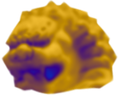
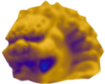
.

diff --git a/styles/myths-i-feed.css b/styles/myths-i-feed.css
@@ -4,9 +4,9 @@
 }
 :root {
     --font: 'iA Writer Quattro';
-    --fontSize: clamp(11px,1vw,13px);
+    --fontSize: clamp(12px,.9vw,14px);
     --fontSizeMedium: 1.15em;
-    --fontSizeBig: 1.6em;
+    --fontSizeBig: 1.5em;
     --fontWeight: 500;
     --fontWeightMedium:420;
     --fontWeightThin: 410;
@@ -132,6 +132,7 @@ p {
 }
 #canvas-wrapper :is(#mycelium-canvas,#mushroom-canvas,#limbo-canvas) {
     display: block !important;
+    image-rendering: pixelated;
     position: fixed;
     z-index: -1;
     top: 0;
@@ -347,11 +348,7 @@ p {
 
 @media (max-width:505px){
     :root {
-        --fontSizeBig: 1.4em;
-        --wordSpacing: -.1em;
-        --wordSpacingMedium: -.12em;
-        --wordSpacingSmall: -.15em;
-        --letterSpacingSmall: -.015em;
+        --fontSizeBig: 1.3em;
         --fontWeight:500;
         --fontWeightMedium: 500;
         --fontWeightThin: 450;
@@ -457,7 +454,7 @@ p {
         margin: 0 2px;
     }
     #intro {
-        background: linear-gradient(to bottom,var(--bgColor2),#ff0d0ddb);
+        background: linear-gradient(to bottom,var(--bgColor2),#ff1c1cdb);
     }
     #intro #about {
         text-align: left;
@@ -473,18 +470,22 @@ p {
     }
     #intro #about .close.button {
         position: absolute;
-        text-align: center;
-        bottom: var(--margin);
-        width:calc(100% - var(--margin) * 2);
+        /* text-align: end; */
+        bottom: calc(var(--marginBig)*2);
+        right:0;
+        width: 10ch;
         border-bottom: 1px solid var(--textColor);
-        font-size: 1.2em;
-        font-weight: calc(var(--fontWeightThin) + 10);
+        font-size: 1.3em;
+        font-weight: var(--fontWeightThin);
     }
     #selector {
-        background: linear-gradient(to bottom, var(--bgColor4),#4e8c53e8);
+        background: linear-gradient(to bottom, var(--bgColor4),#7a768be8);
     }
     #selector .wheel {
         top: 5vh;
+    }
+    #selector .wheel .myth-name {
+        font-size: 1.1em;
     }
     #selector .buttons .button {
         right: var(--marginBig);
@@ -502,11 +503,11 @@ p {
         right:auto;
         left:0;
         transform: none;
-        width:52ch;
+        width:85vw;
         min-width:300px;
     }
     #selector #profile .desc-wrapper {
-        width: 52ch;
+        width: 85vw;
         left:50%;
         bottom:calc(var(--margin) + 20ch);
         transform:translate(-50%,100%);
@@ -514,7 +515,7 @@ p {
     #selector #profile .myth-desc {
         color: var(--textColor);
         font-weight: var(--fontWeight);
-        padding: 3ch;
+        padding: 3ch 2ch;
     }
     #selector .myth-head .delete.button {
         display: none;

diff --git a/scripts/myths-i-feed.js b/scripts/myths-i-feed.js
@@ -66,7 +66,7 @@ let smallScreen,
     selectorIndex=0,
     runningSimulation=0,
     sound=1,
-    oldWidth
+    oldWidth, dpr
 function preload(){
     data=loadJSON('../data/myths-i-feed.json',data=>{
         progenitors=data.progenitors
@@ -98,6 +98,10 @@ function setup(){
     polySynth2=new p5.PolySynth()
 
     myceliumCanvas=createGraphics(width,height,select('canvas#mycelium-canvas').elt)
+    // myceliumCanvas.elt.width=myceliumCanvas.width*dpr
+    // myceliumCanvas.elt.height=myceliumCanvas.height*dpr
+    // const mctx=myceliumCanvas.elt.getContext('2d')
+    // mctx.scale(dpr,dpr)
     myceliumCanvas.background(bgColor)
     myceliumCanvas.ellipseMode(RADIUS)
     myceliumCanvas.rectMode(RADIUS)
@@ -156,6 +160,7 @@ function setup(){
     setupElements()
 }
 function setDimensions(){
+    dpr=window.devicePixelRatio||1
     smallScreen=windowWidth<505
     oldWidth=windowWidth
     initMythCount=round(map(windowWidth,300,1920,3,5,true))
@@ -169,8 +174,6 @@ function setDimensions(){
     chainLinkHeight=round(chainLinkWidth*1.3)
     chainLinkHalfH=chainLinkHeight/2
     chainLinkHalfW=chainLinkWidth/2
-    bodySizeRatio=map(windowWidth,300,1920,.7,1,true)
-    profileBodyRatio=map(windowWidth,300,1920,1,1.4,true)
     mushroomMinCap=smallScreen?4:6
     mushroomMaxCap=smallScreen?12:15
     minFruitingDensity=smallScreen?10:15
@@ -180,7 +183,8 @@ function setDimensions(){
     eatingRadius=smallScreen?20:40
     profileMargin=smallScreen?10:80
     profileHeadRatio=map(windowWidth,505,1920,.7,1.3,true)
-    profileBodyRatio=map(windowWidth,1440,1920,1.3,1.5,true)
+    profileBodyRatio=map(windowWidth,505,1920,1.15,1.5,true)
+    bodySizeRatio=map(windowWidth,300,1920,.6,1,true)
     centerScreen=createVector(windowWidth/2,windowHeight/2)
 }
 function setupElements(){

diff --git a/pages/myths-i-feed.html b/pages/myths-i-feed.html
@@ -6,7 +6,7 @@
     <meta name="description" content="A simulation of evolving stories.">
     <meta name="theme-color" content="#d2d2c8">
     <meta name="viewport" content="width=device-width, initial-scale=1.0">
-    <meta http-equiv="X-UA-Compatible" content="IE=edge" />
+    <meta http-equiv="X-UA-Compatible" content="IE=edge"/>
     <link rel="stylesheet" href="../styles/myths-i-feed.css">
     <title>The Myths I Feed</title>
 </head>
